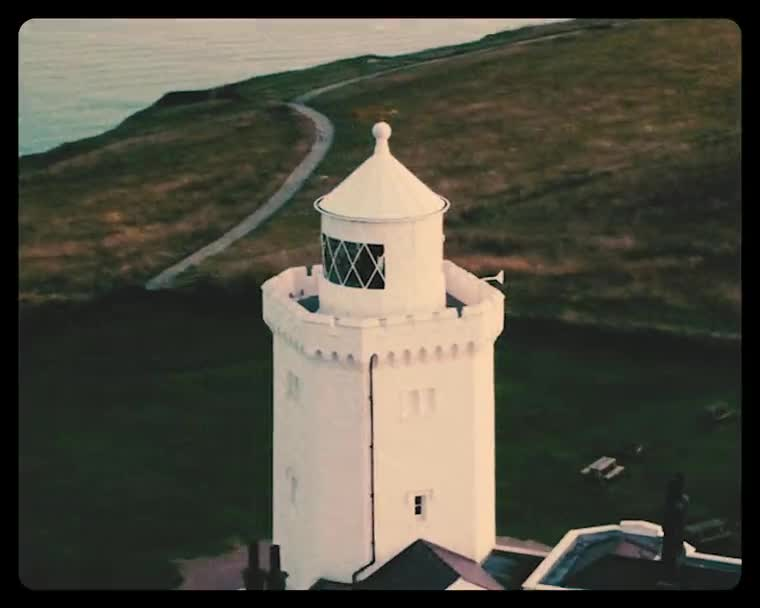
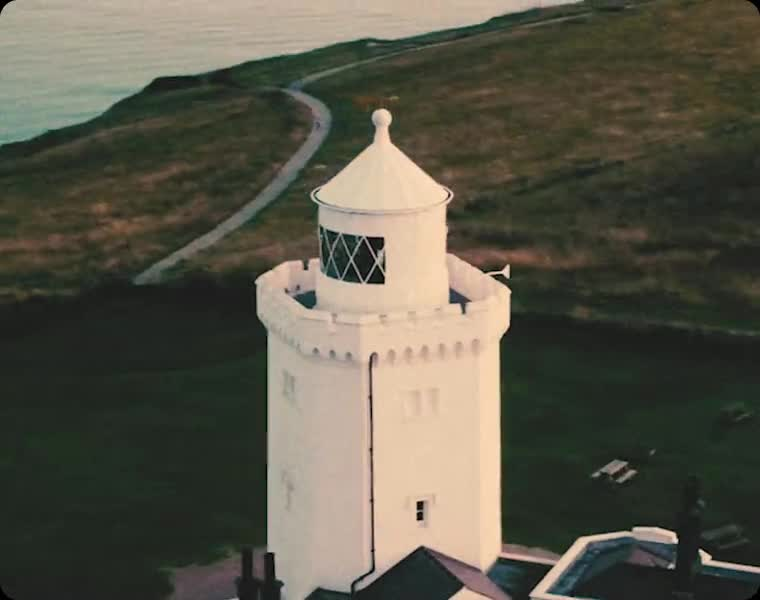
Crop baked-in black border off the off-duty clips
Re-encoded all three from source with the 62px frame border cropped out
(content 2436x1926 -> scaled to 760x600), so the footage now fills each
card edge to edge. Card aspect-ratio updated to 19:15 to match.

Claude-Session: https://claude.ai/code/session_01ChM67Awhx3NsaBAeUCi9Jq

diff --git a/app/globals.css b/app/globals.css
@@ -276,10 +276,11 @@ body {
 
 /* Off-duty video row: three self-hosted clips under the photo carousel.
    Same box-shadow language as .photo-ring-card; aspect-ratio matches the
-   source footage (5:4) so cards hold their size before the video loads. */
+   source footage (760:600 = 19:15) so cards hold their size before the
+   video loads and nothing gets cropped. */
 .video-card {
   position: relative;
-  aspect-ratio: 5 / 4;
+  aspect-ratio: 19 / 15;
   box-shadow: 0 22px 45px -20px rgba(42, 42, 40, 0.5);
 }
 .video-card video {